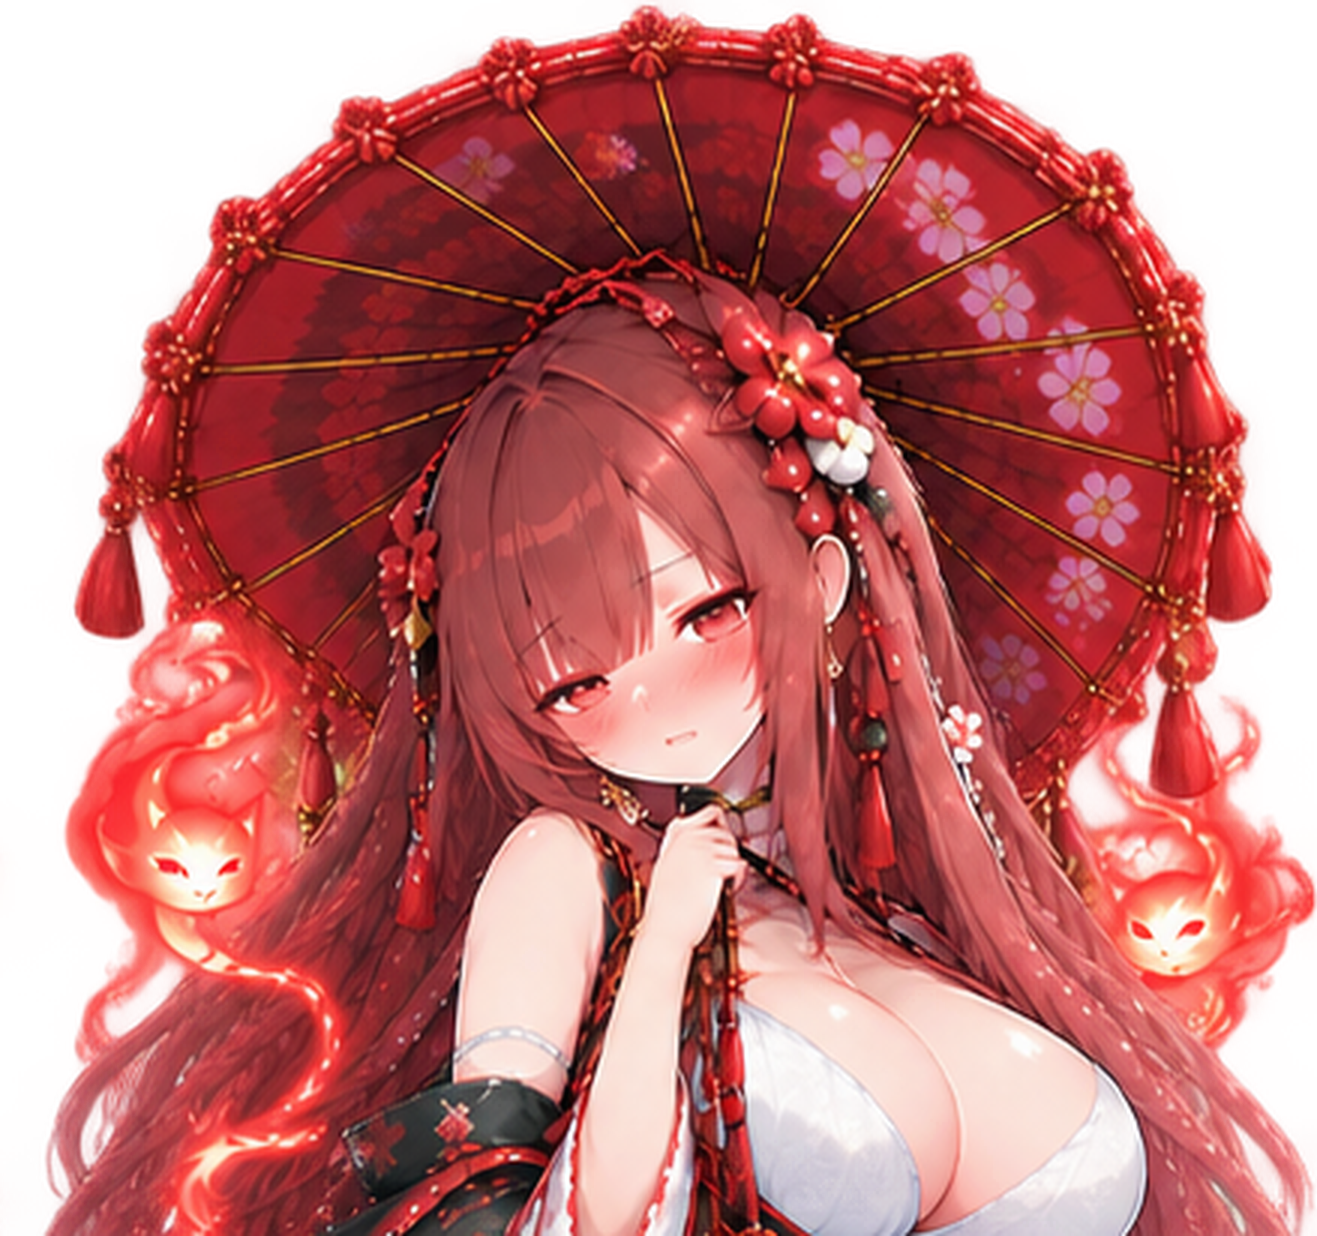
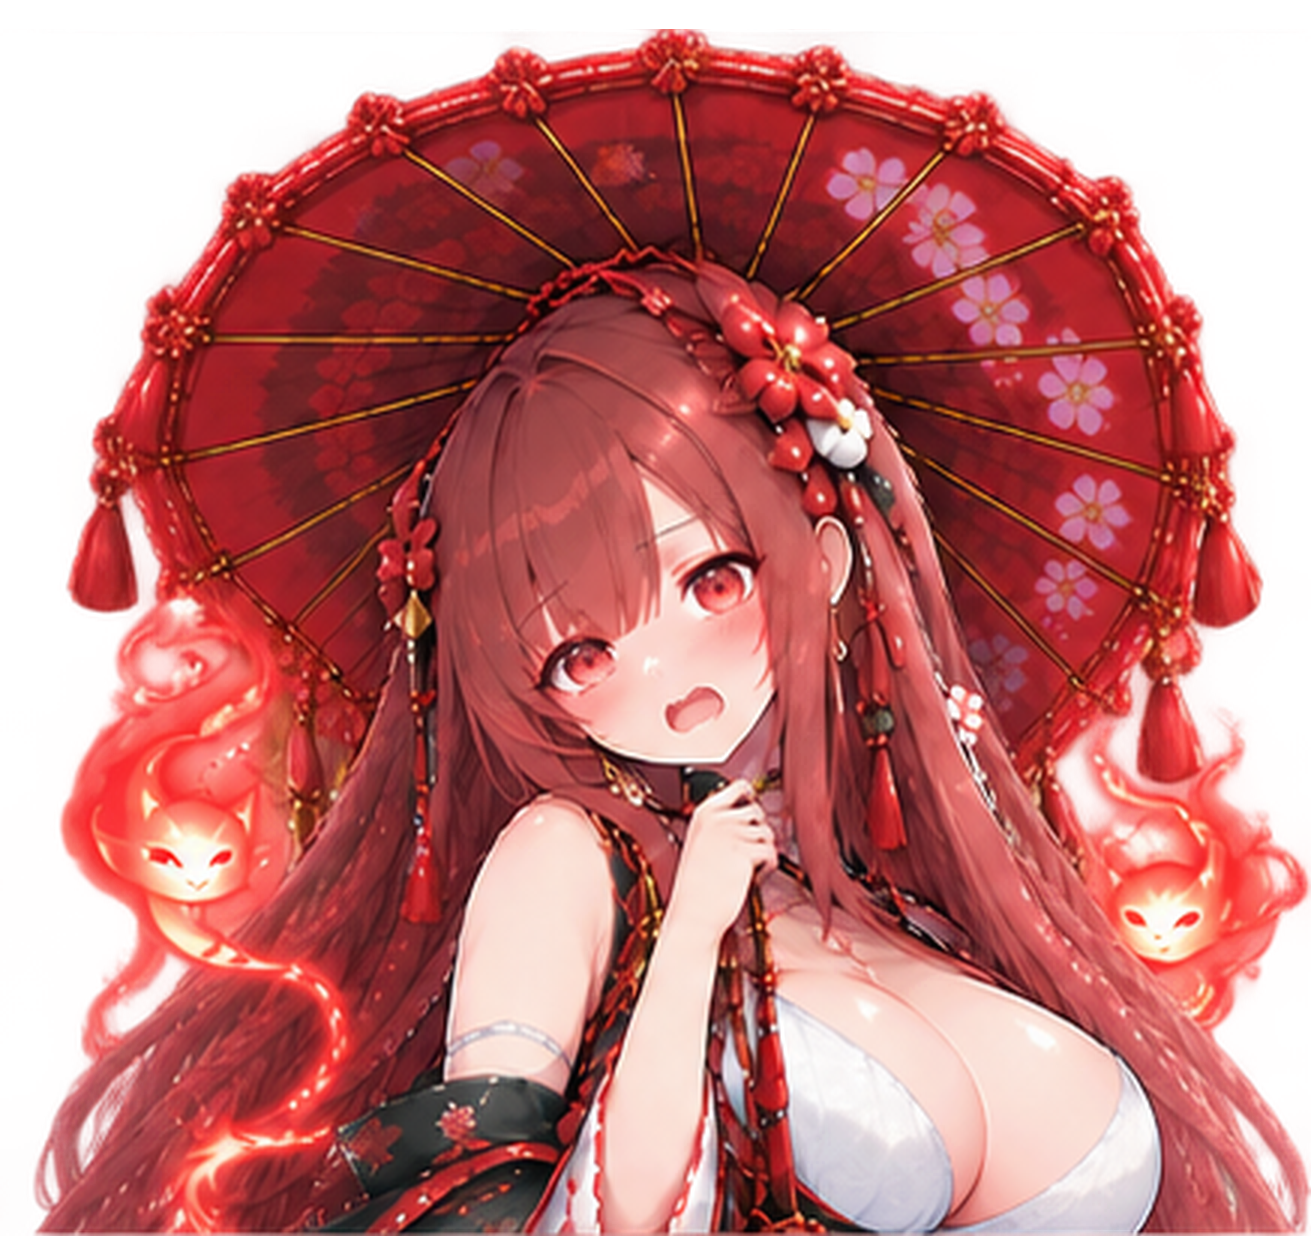
GH-2614: 同梱パックの README の expressions を役割の名はシステムが持つ説明に替え、唐傘の thinking と flustered の絵を入れ替えてラベルを役割に合わせた

diff --git a/characters/README.md b/characters/README.md
@@ -133,10 +133,13 @@ characters/
   セリフの中での呼び方は `persona.md` のほうで決める（この欄はセリフには効かない）
 - **`miniCall` はミニ立ち絵の呼び名**（`docs/glossary.md`「ミニ立ち絵の呼び名」）。ミニ立ち絵の
   alt に `<名前>の<呼び名>` の形で出る。**書かなくてよい**——無ければ「ミニ立ち絵」になる
-- **`expressions` は表情名 → 表示するラベル。** `speak` ツールの説明と立ち絵の alt に出る。
-  **表情の呼び名はキャラクターの言葉なのでコード側に持たない**ので、ここに無い表情は
-  表情名（`default` などの英語）がそのままラベルになる。**立ち絵が無くてもラベルがあれば
-  `speak` で選べる**（絵は `default` に落ちる）
+- **`expressions` は表情名 → 表示するラベル。** 表情の役割の名（通常・考え中・得意気など）は
+  システムが持ち、全パックで同じ。名前と役割の名の対応表は
+  `docs/architecture/adr/0084-expression-role-names-in-system.md`「1. 役割の名と選ぶ場面」を引く。
+  ここには「その役割を、このキャラクターならどう言うか」を書く。`speak` ツールの説明と立ち絵の alt に、
+  役割の名へ添えて出る。**書かなくてよい**——無い表情は役割の名だけが出る。
+  ラベルは役割と意味を合わせる（絵が役割と合わないなら、ラベルでなく絵のほうを入れ替える）。
+  **立ち絵が無くてもラベルがあれば `speak` で選べる**（絵は `default` に落ちる）
 - **`accent` はキャラクターの色**（吹き出し・選ばれたタブなど画面全体に効く）
 - **`chatAccent` は雑談中だけの `accent`**（`docs/architecture/screen-design/color.md` 13.2「雑談中の会話の画面では」/ 13.7）。
   **書かなくてよい**——無ければ雑談中も `accent` のまま（仕事と同じ差し色）。仕事中は効かない。
